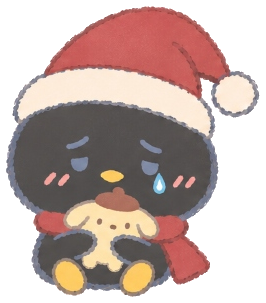
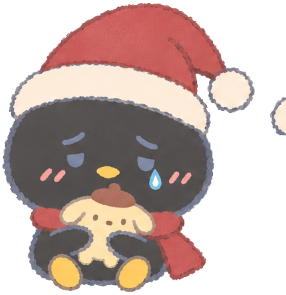
Add files via upload

diff --git a/css/style.css b/css/style.css
@@ -151,9 +151,12 @@ main{flex:1;display:flex;flex-direction:column}
 .snow-mound::before{left:8%;width:90px;height:34px}
 .snow-mound::after{right:6%;width:120px;height:40px}
 .scene-home{height:260px}
-.scene-home .hero-wuji{position:absolute;left:50%;bottom:20px;height:200px;width:auto;transform:translateX(-50%);z-index:2}
+.scene-home .hero-wuji,.scene-result .hero-wuji{
+  position:absolute;left:0;right:0;margin:0 auto;bottom:20px;
+  height:200px;width:auto;display:block;z-index:2;pointer-events:none;
+}
 .scene-result{height:230px}
-.scene-result .hero-wuji{position:absolute;left:50%;bottom:20px;height:180px;width:auto;transform:translateX(-50%);z-index:2}
+.scene-result .hero-wuji{height:180px}
 .speech{
   position:absolute;z-index:3;
   background:#fffaf1;border:2px solid var(--ink);border-radius:18px;
@@ -169,9 +172,7 @@ main{flex:1;display:flex;flex-direction:column}
 .scene-mini .mini-wuji{position:absolute;left:46%;bottom:14px;height:128px;width:auto;z-index:2}
 .speech-mini{top:16px;left:14px;font-size:16px}
 .float{animation:float 3.2s ease-in-out infinite}
-.scene-home .float,.scene-result .float{animation-name:floatX}
-@keyframes float{0%,100%{transform:translateY(0)}50%{transform:translateY(-6px)}}
-@keyframes floatX{0%,100%{transform:translate(-50%,0)}50%{transform:translate(-50%,-7px)}}
+@keyframes float{0%,100%{transform:translateY(0)}50%{transform:translateY(-7px)}}
 
 /* ---------- 答题 ---------- */
 .progress{height:12px;border-radius:99px;background:#eadcc6;border:2px solid var(--ink);overflow:hidden}
